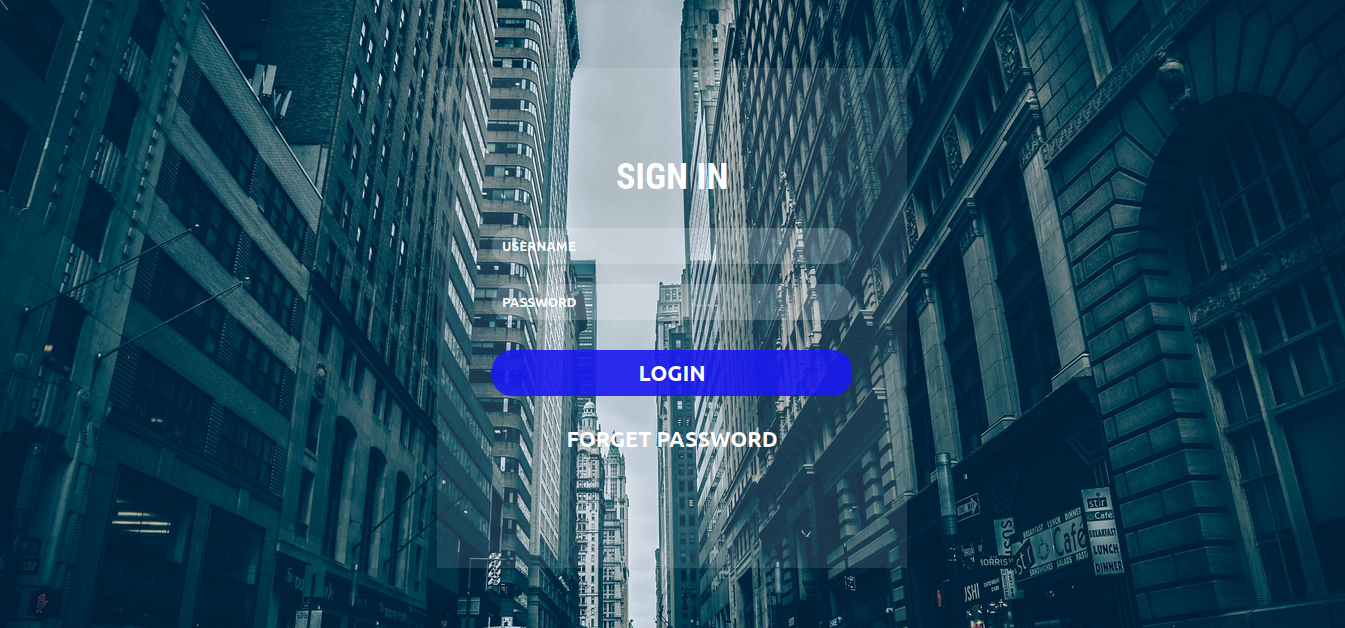
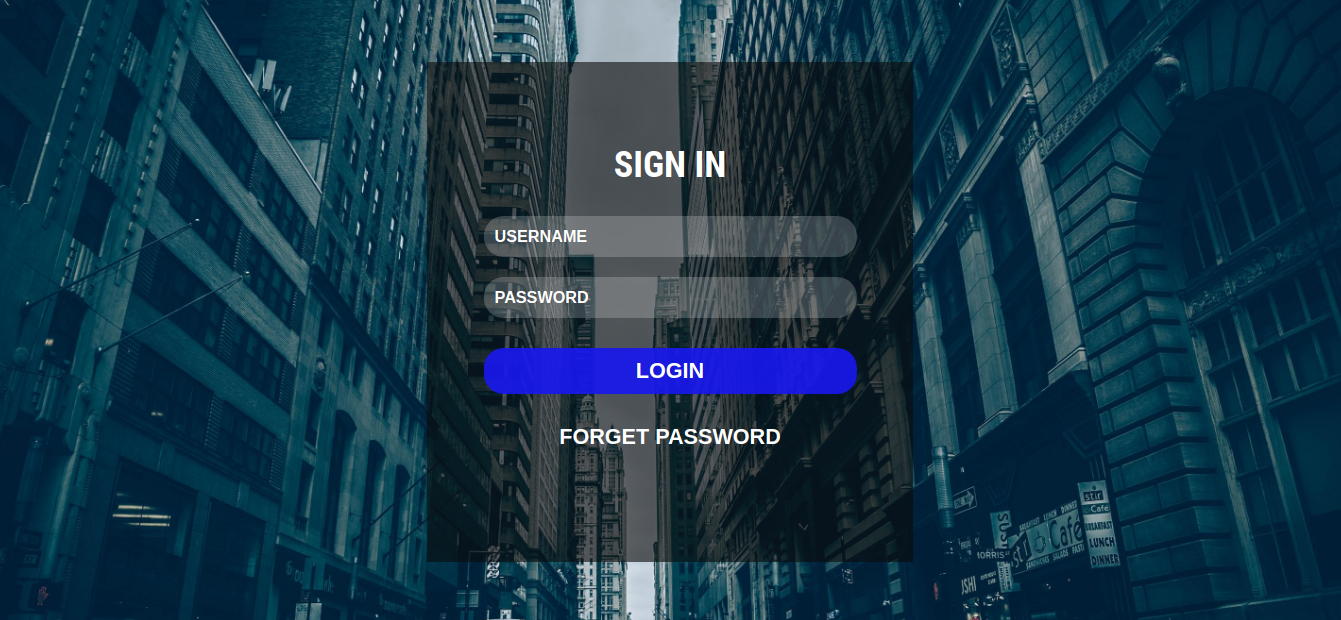
fix small details

diff --git a/css/styles.css b/css/styles.css
@@ -47,7 +47,7 @@ img {
   left: 50%;
   transform: translate(-50%, -50%);
   height: 500px;
-  background-color: rgba(255, 255, 255, 0.1);
+  background-color: rgba(10, 10, 10, 0.6);
   display: flex;
   flex-direction: column;
   justify-content: center;
@@ -83,18 +83,25 @@ img {
 }
 
 .userinput {
+  color: #fff;
+  font-size: 0.9rem;
   margin: 10px auto;
   width: 100%;
   padding: 10px;
   border-radius: 20px;
-  border: none;
-  background-color: rgba(255,255,255, 0.2);
+  border: 1px solid transparent;
+  background-color: rgba(255, 255, 255, 0.2);
 }
 
 .userinput::placeholder {
   color: #fff;
   opacity: 1;
   font-weight: bold;
+}
+
+.userinput:focus {
+  outline: none;
+  border: 1px solid #fff;
 }
 
 /* form actios */
